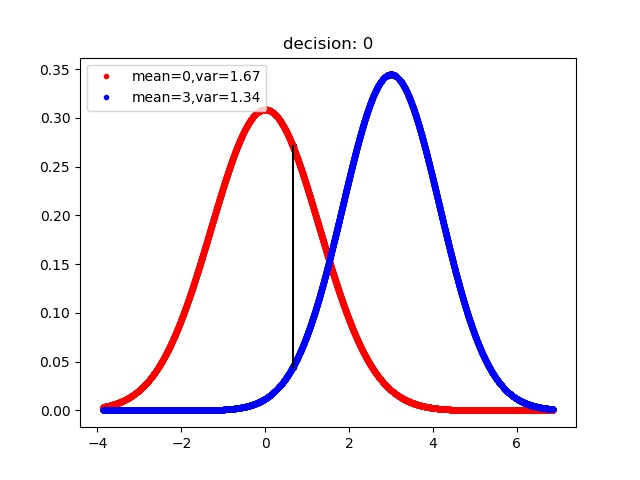
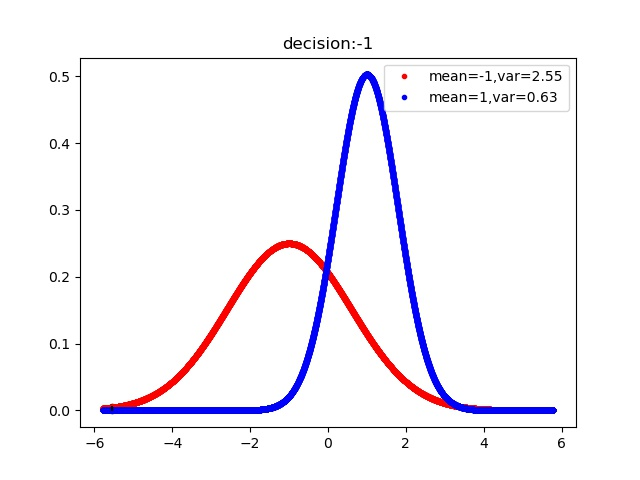
Update: fix Decision_making into nd, but exist numerical wired result

diff --git a/Estimator/Decision_making.py b/Estimator/Decision_making.py
@@ -9,18 +9,44 @@ from scipy.stats import multivariate_normal
 
 
 def Decision_making(ut,ut_zt,mean_ut_zt,Sigma_ut_zt):
-    Sigma_ut_zt0 = Sigma_ut_zt[0]
-    Sigma_ut_zt1 = Sigma_ut_zt[1]
-    mean0 = mean_ut_zt[0]
-    mean1 = mean_ut_zt[1]
-    ut0 = ut[0]
-    ut1 = ut[1]
-    print("ut is ", ut)
-    pdf_H0 = multivariate_normal(mean=mean0,cov=Sigma_ut_zt0).pdf(ut_zt) 
-    pdf_H1 = multivariate_normal(mean=mean1,cov=Sigma_ut_zt1).pdf(ut_zt) 
-    if pdf_H0 >= pdf_H1:
-        decide_u = ut0
-    else: decide_u = ut1
+    
+    if ( (len(mean_ut_zt) == 2) & (mean_ut_zt[0].shape[0] == 1)):
+        Sigma_ut_zt0 = Sigma_ut_zt[0]
+        Sigma_ut_zt1 = Sigma_ut_zt[1]
+        mean0 = mean_ut_zt[0]
+        mean1 = mean_ut_zt[1]
+        ut0 = ut[0]
+        ut1 = ut[1]
+        #print("mean is {}, cov is {}. pdf is {} ".format(mean0, Sigma_ut_zt0,ut_zt  ))
+        #print("1d: pdf ut|zt is ", ut_zt)
+        pdf_H0 = multivariate_normal(mean=mean0,cov=Sigma_ut_zt0).pdf(ut_zt) 
+        pdf_H1 = multivariate_normal(mean=mean1,cov=Sigma_ut_zt0).pdf(ut_zt) 
+        if pdf_H0 >= pdf_H1:
+            decide_u = ut0
+        else: decide_u = ut1
+        print("1d: decide u is", decide_u)
+    else:
+        pdf_H_list = []
+        for i in range(len(mean_ut_zt)):
+            mean_cur = mean_ut_zt[i] # 1*n 
+            Sigma_ut_zt_cur = Sigma_ut_zt[i] # scalar
+            
+            #dim_mean = mean_cur.shape[-1]
+            #sigma = np.full((dim_mean,dim_mean), Sigma_ut_zt_cur)
+            print("mean is {}, cov is {}. pdf is {}".format(mean_cur.flatten(),int(Sigma_ut_zt_cur),  ut_zt.flatten()))
+            #print("nd: pdf ut|zt is ", ut_zt)
+            pdf_H_cur = multivariate_normal(mean=mean_cur.flatten() ,cov=int(Sigma_ut_zt_cur)).pdf(ut_zt.flatten())
+            pdf_H_list.append(pdf_H_cur)
+  #          print("mean.dim is {}, cov.dim is {}, ut_dim is {}, pdf.dim is {}, pdf_H_cur".
+  #                format(mean_cur.flatten().shape, Sigma_ut_zt_cur.shape, 
+  #                       ut_zt.T.shape, pdf_H_cur.shape, pdf_H_cur)
+  #                )          
+            
+        max_pdf_H = pdf_H_list.index(max(pdf_H_list))
+            
+        decide_u  = ut[max_pdf_H]
+        print("nd: decide u is", decide_u)
+        
     return decide_u
 
 if __name__ == '__main__':

diff --git a/Simulations/Simulation.py b/Simulations/Simulation.py
@@ -28,6 +28,7 @@ def simulation(SM,x0,uts,ts,ut,trials):
         u_D = Estr.estimator(SM,z,ut)
         u_T = u[-1]
         u_td = [u_T,u_D]
+        #print("u_td is ",  u_td)
         u_T_D.append(u_td)
     return u_T_D
 def verification(num, mode):
@@ -45,15 +46,16 @@ def verification(num, mode):
         T,uts,ts,ut,trials,x0 = SSGen.System_setup_generator()
 
     elif mode == "nd": 
-        MRange = [0,6]
-        nHy = 5
-        nd = 4
+        
+        nHy = 3
+        nd = 2
         dx = nd
-        du = nd
+        du = dx
         dz = 1 
+        MRange = [0,nHy]
         System_models = SMGennd.SM_generator_nd(dx,dz,du,Arange,Brange,Hrange,Qrange,Rrange,num)
         
-        T,uts,ts,ut,trials,x0 = SSGen.System_setup_generator_nd(nHy,nd,MRange)
+        T,uts,ts,ut,trials,x0 = SSGen.System_setup_generator_nd(nHy,nd,du,MRange)
         
     SM_num = len(System_models[0]) #SM = [As,Bs,Hs,Qs,Rs]; As = []
 
@@ -70,14 +72,13 @@ def verification(num, mode):
         for j in range(len(u_T_D)):
             uD = u_T_D[j][1]
             u_D.append(uD)
-        print ("sucess once ")
-        plt.title('A=' + '%.2f' % A + '; B=' + '%.2f' % B + '; H=' + '%.2f' % H + '; Q=' + '%.2f' % Q + '; R=' + '%.2f' % R)
+      #  plt.title('A=' + '%.2f' % A + '; B=' + '%.2f' % B + '; H=' + '%.2f' % H + '; Q=' + '%.2f' % Q + '; R=' + '%.2f' % R)
         plt.hist(u_D, density=0, facecolor="blue", edgecolor="black", alpha=1.0)
         plt.ylabel("frequency")
         plt.xlabel('categories')
         fig_name1 = './figs/simulation_figs/' + str(i) + '_u_T_D.jpg'
         plt.savefig(fig_name1)
-        #plt.close()
+        plt.close()
 if __name__ == '__main__':
     
     mode = "nd" #1d/nd

diff --git a/Estimator/Bayesian_analysis.py b/Estimator/Bayesian_analysis.py
@@ -14,6 +14,7 @@ def Bayesian_analysis(SM,ut,Sigma,estimates,measurements):
     Q = SM[3]
     R = SM[4]
     ut_zt = measurements[-1] - np.dot(H,np.dot(A,estimates[-2]))
+    print("bayesian ut|zt",ut_zt)
     Sigma_t = Sigma[-1]
     S = np.dot(np.dot(A,Sigma_t),A.T)+Q
     Sigma_ut_zt01 = np.dot(np.dot(H,S),H.T)+R
@@ -21,9 +22,15 @@ def Bayesian_analysis(SM,ut,Sigma,estimates,measurements):
     mean_ut_zt = []
     Sigma_ut_zt = []
     
-    for i in range(len(ut))
+    for i in range(len(ut)):
         mean_ut_zt.append(np.dot(H,B) * ut[i])
-        Sigma_ut_zt.append(Sigma_ut_zt01)
+        if (type(ut[i]) == int):
+            Sigma_ut_zt.append(Sigma_ut_zt01)
+        else:
+            #sigma = np.full((H.shape[0], ut[i].shape[-1]), Sigma_ut_zt01)
+            sigma = Sigma_ut_zt01  #Note: dimention is not correct!
+            Sigma_ut_zt.append(sigma)
+        
     #mean_ut_zt = [np.dot(H,B)*ut[0],np.dot(H,B)*ut[1]]
     #Sigma_ut_zt = [Sigma_ut_zt01,Sigma_ut_zt01]
     return ut_zt,mean_ut_zt,Sigma_ut_zt

diff --git a/Simulations/Simulator.py b/Simulations/Simulator.py
@@ -62,7 +62,6 @@ class Simulator_1t(object):
         # process noise
         #self.process_noise = self.convert_var2noise(self.process_var)
         self.process_noise = self.multi_noise(self.process_var)
-
         ut = np.dot(self.B,self.ut) +  self.process_noise
         self.x =np.dot(self.A,self.x)  + np.dot(ut, dt)
     def sensing(self):
@@ -129,9 +128,13 @@ def Simulator(SM,x0,ut_sq):
             xzs_new = [sim_1n.transfer_and_sense()]
             yt,zt = seperate_x_z(xzs_new)
 
-            #if yt[0][0] >= 1000000 or yt[0][0] <= -1000000 :
-            #    yt[0][0] = yt[0][0]/1000000
-            #    zt[0][0] = zt[0][0]/1000000
+        #    if yt[0][0] >= 1000000 or yt[0][0] <= -1000000 :
+         #       yt[0][0] = yt[0][0]/1000000
+        #        zt[0][0] = zt[0][0]/1000000
+                
+            if np.mean(yt[0]) >=1000000 or np.mean(yt[0]) <= -1000000:
+                yt[0] /= 1000000
+                zt[0] /= 1000000
 
             y.append(yt[0])
             z.append(zt[0])

diff --git a/E2Etest/System_setup_generator.py b/E2Etest/System_setup_generator.py
@@ -18,8 +18,8 @@ def System_setup_generator():
     x0 = np.array([[0]]).reshape(dx, 1)
     return T,uts,ts,ut,trials,x0
 
-def System_setup_generator_nd(nHy,nd,MRange):
-    uts = GenMean(nHy,nd,MRange)
+def System_setup_generator_nd(nHy,nd,nu,MRange):
+    uts = GenMean(nHy,nu,MRange)
     ts = []
     for _ in range(nHy):
         ts.append(int(np.random.randint(20,50,size=1)))
@@ -27,8 +27,9 @@ def System_setup_generator_nd(nHy,nd,MRange):
     #T = ts[0] + ts[1]
     T = sum(ts)
     ut = uts
+    print("ut is " , ut)
 
-    trials = 1000   
+    trials = 100   
     dx = nd
     x0 = np.random.uniform(0, 0, (dx,1))
     return T,uts,ts,ut,trials,x0

diff --git a/Estimator/Decision_making_verification.py b/Estimator/Decision_making_verification.py
@@ -48,5 +48,5 @@ def verification(num):
         plt.savefig(fig_name)
         plt.close()
 if __name__ == '__main__':
-    verification(20)
+    verification(2)
 
